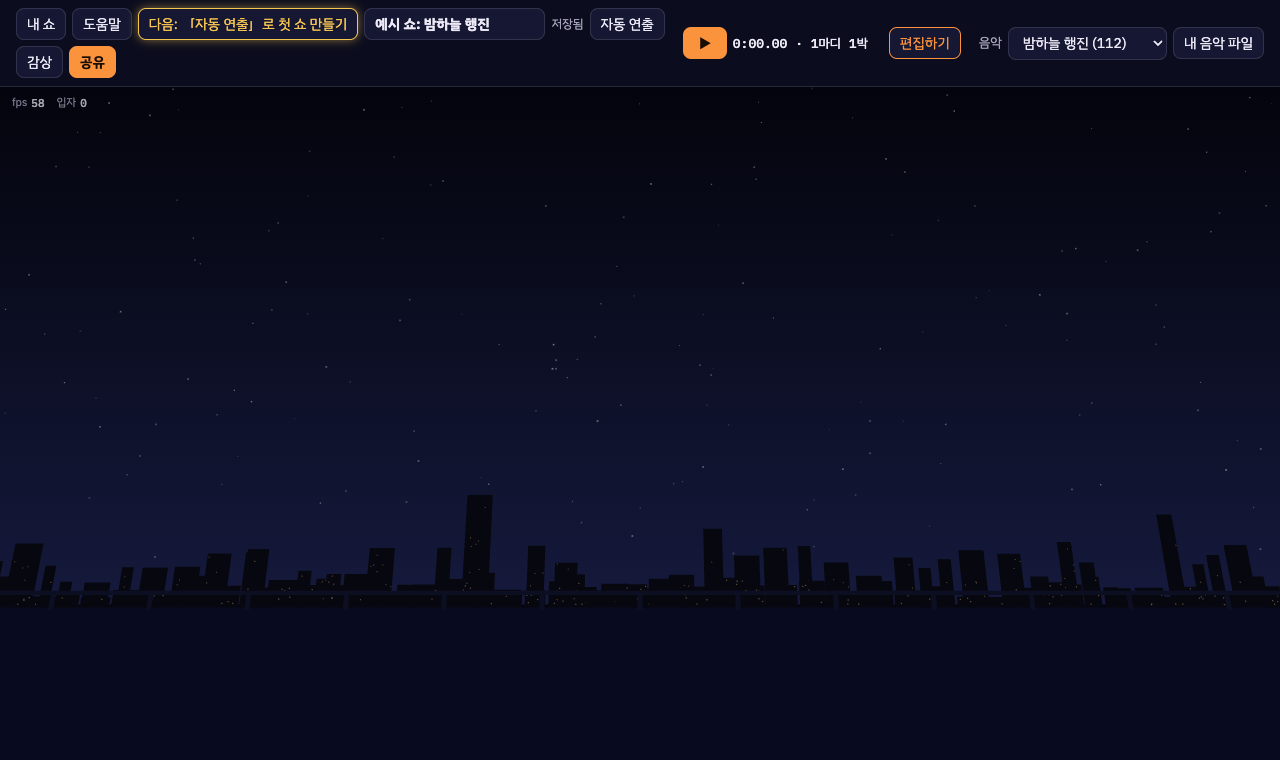
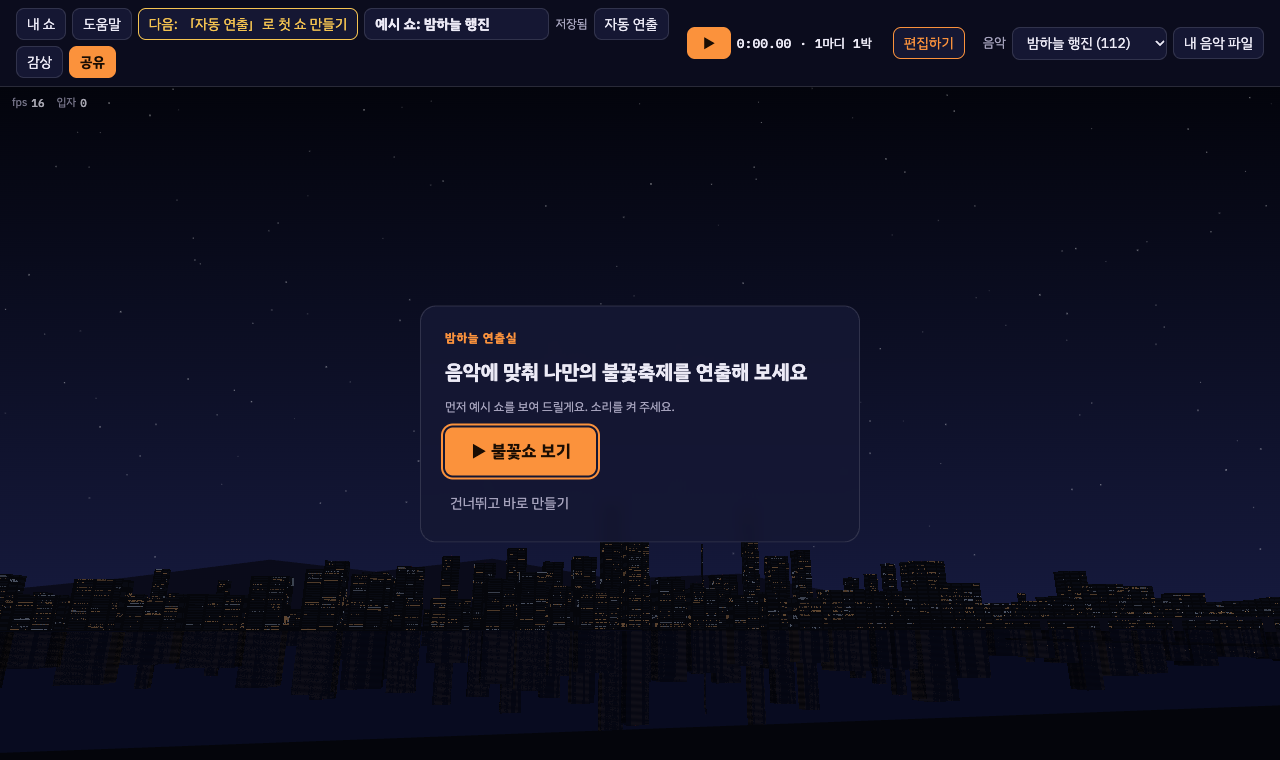
리드미와 스크린샷을 지금 화면으로 갱신
직접 쏘기, 관객 반응, 성적표, 경력 이야기, 물리 계산을 리드미에 더하고
옛 화면 12장을 다시 찍었다.

Changed region(s): [[0.0, 0.4237, 1.0, 0.8171], [0.4375, 0.0, 0.875, 0.0908], [0.0938, 0.0, 0.2812, 0.0605]]

diff --git a/docs/wireframes.html b/docs/wireframes.html
@@ -130,7 +130,7 @@ ul.points li + li { margin-top: 4px; }
       </div>
       <div class="bx sky">무대 (화면 대부분) · 누르면 가까운 바지선에 지금 시각으로 불꽃을 놓는다</div>
     </div>
-    <figure><img src="screenshots/02-simple.png" alt="간단 화면: 위 막대와 무대만 보이고 국화 불꽃이 터지는 모습" loading="lazy" width="1280" height="760"><figcaption>자동 연출을 한 뒤. 사진 · 영상 · 나란히가 열렸다는 안내가 뜬다.</figcaption></figure>
+    <figure><img src="screenshots/02-simple.png" alt="간단 화면: 위 막대와 무대만 보이고 불꽃 세 발이 터지는 모습" loading="lazy" width="1280" height="760"><figcaption>예시 쇼를 띄운 간단 화면. 처음에는 꼭 필요한 버튼만 보인다.</figcaption></figure>
   </div>
   <ul class="points">
     <li>시간표, 설정 칸, 박자, 관람석·무대 설정은 숨긴다. 「편집하기」를 누르면 펼쳐지고, 고른 화면을 기억한다.</li>

diff --git a/README.md b/README.md
@@ -9,27 +9,60 @@
 |:--|:--|
 | [화면 설계](https://juhee77.github.io/night-sky-studio/docs/wireframes.html) | 화면별 와이어프레임과 실제 화면 ([docs/wireframes.html](docs/wireframes.html)) |
 | [기획서](https://juhee77.github.io/night-sky-studio/docs/plan.html) | 기능, 단계, 용어 사전 ([docs/plan.html](docs/plan.html)) |
+| [불꽃 점검표](docs/fireworks-audit.md) | 불꽃 종류와 공방 효과를 실제 원리와 대조한 결과 |
 | [서버판](server/README.md) | 짧은 링크, 계정, 클라우드 저장, 상영관 |
 
-![간단 화면: 무대 위로 국화 불꽃이 터지는 모습](docs/screenshots/02-simple.png)
+![간단 화면: 한강 무대 위로 불꽃 세 발이 터지고, 지상 틀에 「밤하늘」 글자가 켜진 모습](docs/screenshots/02-simple.png)
 
 ## 할 수 있는 것
 
 - **자동 연출**: 곡의 박자와 세기를 읽어 불꽃을 놓아 줍니다. 기본 곡이나 내 음악 파일을 씁니다.
+- **직접 쏘기**: 음악을 들으며 키나 무대를 눌러 쏩니다. 터지는 순간이 박에 맞으면 「완벽!」이고, 쏜 기록은 시간표로 저장할 수 있습니다.
 - **편집**: 시간표에서 불꽃 종류 · 크기 · 색 · 발사 위치(바지선 · 다리 · 지상 틀 · 드론)를 박자에 맞춰 놓습니다.
 - **감상과 공유**: 무대만 화면 가득 보고, 링크 · 장노출 사진 · 영상(MP4)으로 보냅니다.
+- **관객 반응**: 재생 중에 관객 실루엣과 「관객 열기」 게이지, 판정 글자가 나오고 함성과 환호, 메아리가 들립니다.
 - **공작소**: 내 불꽃을 만듭니다.
   - 빠른 설계: 슬라이더로 바로
   - 제작 공방: 반구에 별을 붙여 알을 조립
   - 작업대: 배합부터 시험장까지 손으로
 - **의뢰소**: 손님의 의뢰(곡 · 예산 · 조건)를 받아 납품하고, 돈과 평판으로 불꽃을 해금합니다.
+  - 경력 이야기: 동네 축제에서 시작해 한강 세계불꽃축제 대회까지 올라갑니다.
+  - 성적표: 등급, 항목별 점수, 가장 좋았던 순간과 아쉬웠던 순간, 최고 기록을 보여 줍니다.
 - **발사장**: 평면도에서 바지선 자리와 안전거리를 정하고, 실전 모드에서는 허가 · 장전 · 배선까지 맞춥니다.
-  - 무대는 기본 무대 7곳 중에서 고르거나, 지도에서 실제 장소를 골라 만듭니다.
+  - 무대는 기본 무대 7곳 중에서 고르거나, 지도에서 실제 장소를 골라 만듭니다. 처음 무대는 3D 건물과 다리가 있는 한강입니다.
 - **단계별로 열기**: 처음에는 꼭 필요한 버튼만 보이고, 위 막대의 「다음: …」이 알려 주는 일을 해낼 때마다 기능이 하나씩 열립니다.
 
-| 휴대폰 간단 화면 | 휴대폰 편집 화면 | 공작소 제작 공방 |
-|:--:|:--:|:--:|
-| <img src="docs/screenshots/10-mobile-simple.png" width="220" alt="휴대폰 간단 화면"> | <img src="docs/screenshots/11-mobile-edit.png" width="220" alt="휴대폰 편집 화면"> | <img src="docs/screenshots/05-workshop-build.png" width="360" alt="공작소 제작 공방"> |
+| 직접 쏘기 | 관객 반응 |
+|:--:|:--:|
+| <img src="docs/screenshots/13-live-fire.png" width="420" alt="직접 쏘기: 바지선별 남은 통과 쏜 불꽃 수"> | <img src="docs/screenshots/14-crowd.png" width="420" alt="관객 실루엣과 관객 열기 게이지, 판정 글자"> |
+
+| 성적표 | 경력 이야기 |
+|:--:|:--:|
+| <img src="docs/screenshots/15-report.png" width="420" alt="의뢰 성적표: 등급과 항목별 점수"> | <img src="docs/screenshots/16-career.png" width="420" alt="의뢰소의 경력 단계와 한강 세계불꽃축제 대회 의뢰"> |
+
+| 편집 화면 | 공작소 제작 공방 |
+|:--:|:--:|
+| <img src="docs/screenshots/03-edit.png" width="420" alt="편집 화면: 무대와 시간표"> | <img src="docs/screenshots/05-workshop-build.png" width="420" alt="공작소 제작 공방"> |
+
+| 휴대폰 간단 화면 | 휴대폰 편집 화면 |
+|:--:|:--:|
+| <img src="docs/screenshots/10-mobile-simple.png" width="220" alt="휴대폰 간단 화면"> | <img src="docs/screenshots/11-mobile-edit.png" width="220" alt="휴대폰 편집 화면"> |
+
+## 물리와 실제 불꽃 이론
+
+불꽃의 움직임은 대본이 아니라 계산으로 나옵니다.
+
+![7호 모란이 터진 뒤 0.15초, 0.6초, 1.4초, 2.4초의 모습](docs/screenshots/17-flight.png)
+
+*7호 모란. 처음에 가장 빠르게 퍼지고, 공기 저항으로 느려지다가 별이 다 타면 꺼집니다.*
+
+- **크기**: 호수별 높이와 지름은 일본 불꽃 자료의 표를 따릅니다.
+- **상승**: 알의 무게, 지름, 저항 계수로 계산합니다. 3호 약 4초, 5호 약 5초, 7호 약 6초, 10호 약 7초입니다.
+- **별의 비행**: 모든 입자에 중력 9.8m/s²와 속도 제곱 공기 저항을 적용합니다. 불티가 천천히 떨어지는 것도 저항 때문입니다.
+- **소리**: 음속만큼 늦게 들리고, 거리에 반비례해 작아집니다.
+- **타는 모습**: 색온도, 깜빡임, 잔불, 연기를 그립니다.
+
+종류별 판정과 근거, 아직 실측을 찾지 못해 어림한 값은 [불꽃 점검표](docs/fireworks-audit.md)에 적었습니다.
 
 ## 실행
 
